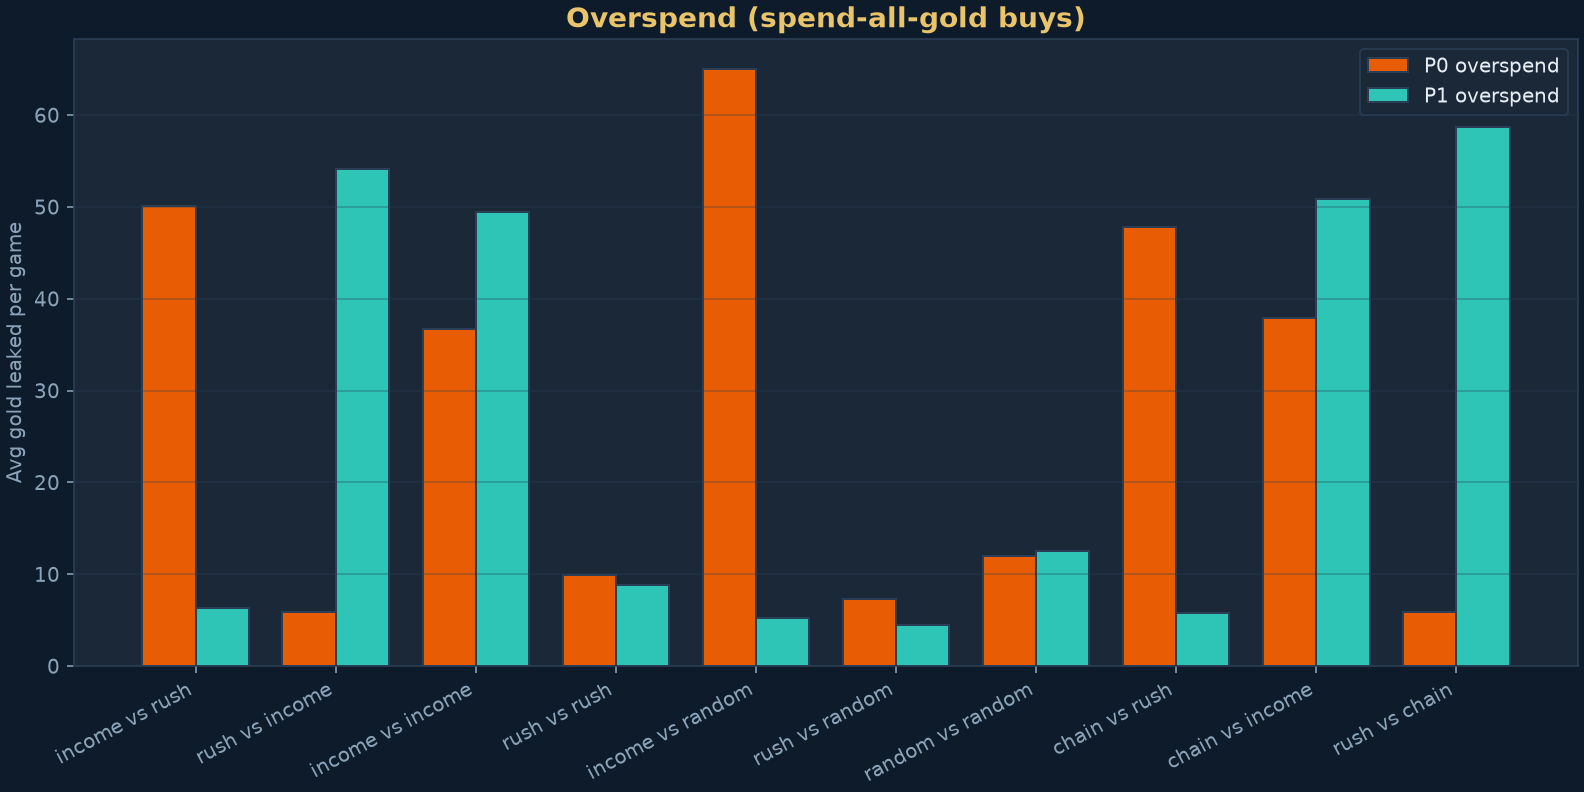
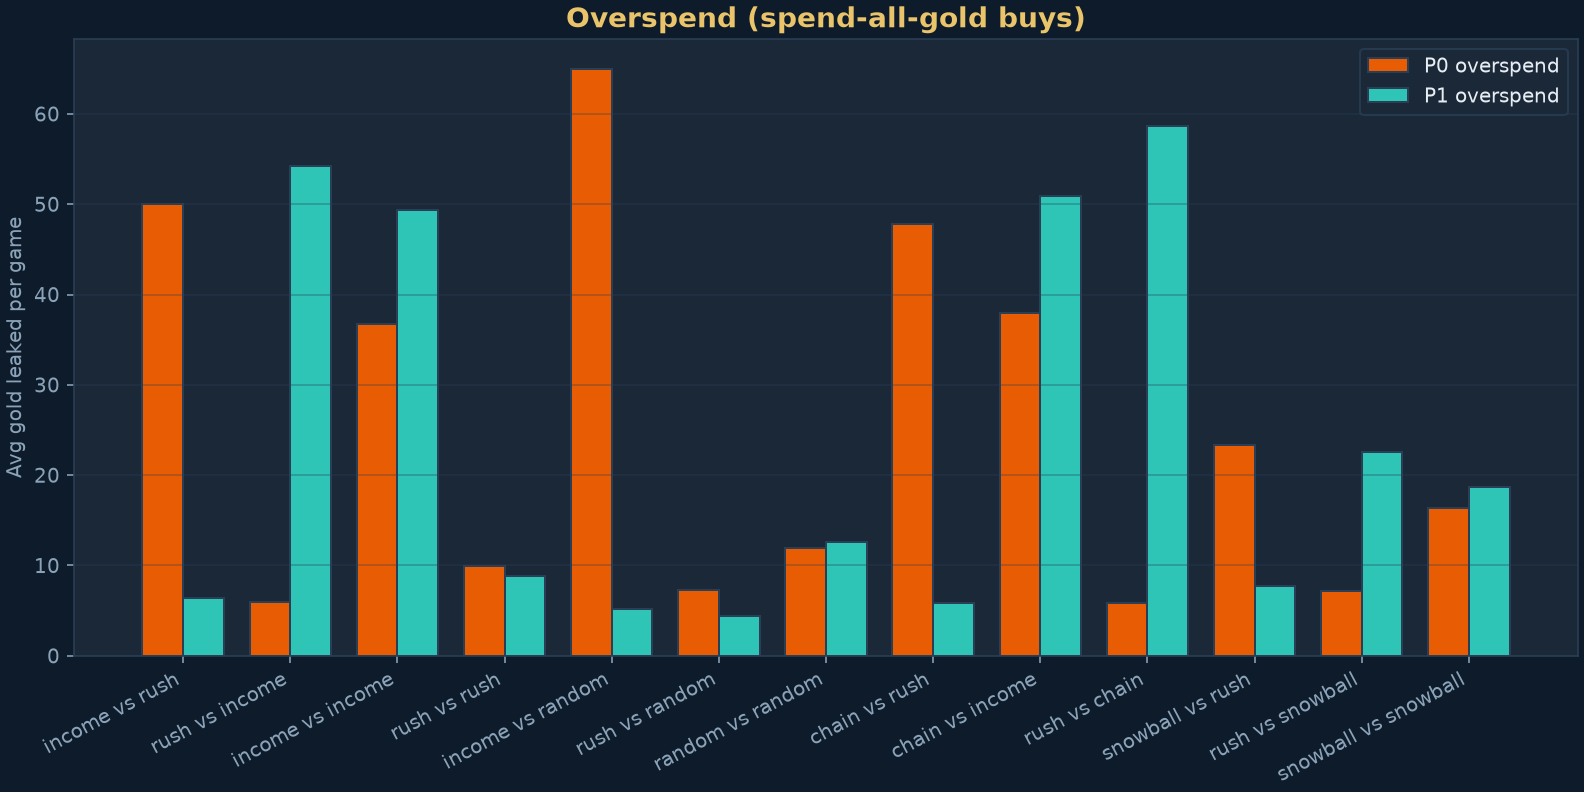
Add snowball bot to compete with rush
- SnowballBot: tempo ship scoring (5-8 income + low-sector rush), chains while building, rush close
- best_ship_tempo in bot_policy; benchmark matchups vs rush and mirror
- Tests, docs, plots, and CLI help updated

diff --git a/src/spacebase2p/bot_policy.py b/src/spacebase2p/bot_policy.py
@@ -49,6 +49,52 @@ def best_ship_for_income(ships: list[ShipCard]) -> ShipCard | None:
     return max(income_cards, key=lambda c: (c.station.income, c.station.gold, -c.cost))
 
 
+def best_ship_for_income_mid(ships: list[ShipCard]) -> ShipCard | None:
+    """Guide opening: income on sectors 5–8."""
+    income_cards = [c for c in ships if c.station.income > 0 and 5 <= c.sector <= 8]
+    if not income_cards:
+        return None
+    return max(
+        income_cards,
+        key=lambda c: (c.station.income, c.station.gold, -c.cost, -abs(c.sector - 7)),
+    )
+
+
+def should_pass_to_save(gold: int, ships: list[ShipCard], *, mid_income_only: bool) -> bool:
+    """Pass when holding 6+ gold and no efficient buy (guide: wait for level 2)."""
+    if gold < 6:
+        return False
+    pool = ships
+    if mid_income_only:
+        pool = [c for c in ships if c.station.income > 0 and 5 <= c.sector <= 8]
+    else:
+        pool = [c for c in ships if worth_buying(gold, c.cost)]
+    return not any(worth_buying(gold, c.cost) for c in pool)
+
+
+def _ship_tempo_score(card: ShipCard) -> float:
+    """Rush lines plus strong 5–8 income (guide default 2p plan)."""
+    score = 0.0
+    if 1 <= card.sector <= 6:
+        score += card.deployed.rockets * 10
+        score += card.station.gold * 2.5
+        score += card.station.vp * 4
+    if 5 <= card.sector <= 8:
+        score += card.station.income * 14
+        score += card.station.gold * 1.5
+    if 7 <= card.sector <= 11 and card.station.has_arrow:
+        score += 6
+    score -= card.cost * 0.35
+    return score
+
+
+def best_ship_tempo(ships: list[ShipCard], gold: int) -> ShipCard | None:
+    affordable = [c for c in ships if worth_buying(gold, c.cost)]
+    if not affordable:
+        return None
+    return max(affordable, key=_ship_tempo_score)
+
+
 def best_ship_rush_engine(ships: list[ShipCard]) -> ShipCard | None:
     low = [c for c in ships if 1 <= c.sector <= 6]
     rockets = [c for c in low if c.deployed.rockets > 0]
@@ -162,6 +208,8 @@ def pick_ship_buy(
 
     if prefer == "income":
         card = best_ship_for_income(ships)
+    elif prefer == "tempo":
+        card = best_ship_tempo(ships, gold)
     else:
         card = best_ship_rush_engine(ships)
 

diff --git a/src/spacebase2p/bots.py b/src/spacebase2p/bots.py
@@ -70,6 +70,19 @@ def _resolve_buy(
     return BuyAction(BuyKind.PASS)
 
 
+def _resolve_snowball_buy(game: Game, player_idx: int, target_income: int) -> BuyAction:
+    """Tempo plan: rush race plus efficient 5–8 income in one scoring pass."""
+    player = game.players[player_idx]
+    prefer = "tempo" if player.income < target_income else "rush"
+    return _resolve_buy(
+        game,
+        player_idx,
+        prefer=prefer,
+        use_deny=True,
+        use_chains=prefer == "tempo",
+    )
+
+
 class RandomBot:
     def __init__(self, rng: random.Random) -> None:
         self.rng = rng
@@ -170,6 +183,36 @@ class RushBot:
         )
 
 
+class SnowballBot:
+    """Disciplined 2p income plan (5–8), then colony rush like the guide."""
+
+    def __init__(self, rng: random.Random, target_income: int | None = None) -> None:
+        self.rng = rng
+        self.target_income = target_income or 6
+
+    def choose_allocation(
+        self,
+        game: Game,
+        player_idx: int,
+        roll: Roll,
+        active_idx: int,
+    ) -> AllocationMode:
+        return best_allocation(game, player_idx, roll, active_idx)
+
+    def choose_arrows(
+        self,
+        game: Game,
+        player_idx: int,
+        options: list[str],
+        from_sector: int = 0,
+    ) -> str:
+        is_active = player_idx == game.active
+        return choose_arrow_direction(game.players[player_idx], from_sector, is_active, options)
+
+    def choose_buy(self, game: Game, player_idx: int) -> BuyAction:
+        return _resolve_snowball_buy(game, player_idx, self.target_income)
+
+
 class ChainBot:
     """Income + blue arrows (7–11), smart allocation, deny."""
 
@@ -217,6 +260,8 @@ def make_bot_pair(names: Sequence[str], rng: random.Random) -> list:
             bots.append(RushBot(rng))
         elif key == "chain":
             bots.append(ChainBot(rng))
+        elif key in ("snowball", "snow"):
+            bots.append(SnowballBot(rng))
         elif key in ("random", "rand"):
             bots.append(RandomBot(rng))
         else:

diff --git a/scripts/generate_simulation_plots.py b/scripts/generate_simulation_plots.py
@@ -56,9 +56,16 @@ def plot_win_rates(results) -> None:
     labels = [_label(r) for r in results]
     rates = [r.p0_win_rate for r in results]
     y = np.arange(len(labels))
-    colors = [ORANGE if "income" in r.p0 and "rush" in r.p1 else TEAL if "rush" in r.p0 else SKY for r in results]
+    def _bar_color(r) -> str:
+        if r.p0 in ("income", "snowball") and r.p1 == "rush":
+            return ORANGE
+        if r.p0 == "rush" and r.p1 in ("income", "snowball"):
+            return TEAL
+        return SKY
 
-    fig, ax = plt.subplots(figsize=(10, 5.5), layout="constrained")
+    colors = [_bar_color(r) for r in results]
+
+    fig, ax = plt.subplots(figsize=(10, 6.5), layout="constrained")
     bars = ax.barh(y, rates, color=colors, height=0.65, edgecolor=GRID)
     ax.set_yticks(y, labels)
     ax.set_xlim(0, 105)

diff --git a/src/spacebase2p/cli.py b/src/spacebase2p/cli.py
@@ -43,7 +43,7 @@ def main(argv: list[str] | None = None) -> None:
 
     sim = sub.add_parser("simulate", help="run N games")
     sim.add_argument("-n", "--games", type=int, default=100)
-    sim.add_argument("--p0", default="income", help="income|rush|chain|random")
+    sim.add_argument("--p0", default="income", help="income|rush|chain|snowball|random")
     sim.add_argument("--p1", default="rush")
     sim.add_argument("--seed", type=int, default=None)
     sim.set_defaults(func=cmd_simulate)

diff --git a/tests/test_snowball_bot.py b/tests/test_snowball_bot.py
@@ -1,0 +1,16 @@
+import random
+
+from spacebase2p.benchmark import run_matchup
+from spacebase2p.bots import SnowballBot, make_bot_pair
+
+
+def test_snowball_bot_registered():
+    rng = random.Random(0)
+    bots = make_bot_pair(["snowball", "rush"], rng)
+    assert isinstance(bots[0], SnowballBot)
+
+
+def test_snowball_competitive_vs_rush():
+    r = run_matchup("snowball", "rush", games=200, seed=42)
+    assert r.p0_win_rate >= 40.0
+    assert r.avg_overspend_p0 < 35.0

diff --git a/src/spacebase2p/benchmark.py b/src/spacebase2p/benchmark.py
@@ -18,6 +18,9 @@ DEFAULT_MATCHUPS: list[tuple[str, str]] = [
     ("chain", "rush"),
     ("chain", "income"),
     ("rush", "chain"),
+    ("snowball", "rush"),
+    ("rush", "snowball"),
+    ("snowball", "snowball"),
 ]
 
 

diff --git a/docs/sim-analysis.md b/docs/sim-analysis.md
@@ -8,7 +8,7 @@ nav_order: 3
 This page interprets the latest [simulation batch](simulation.md) and maps numbers to claims in the [two-player normal guide](guide/2p-normal.md). For model limits (stub deck, bots, excluded cards), see [Simulation assumptions](sim-assumptions.md).
 
 <div class="sb-callout">
-  <strong>Bottom line:</strong> The model agrees with the guide on <strong>pace (~20 shared rounds)</strong>, <strong>colony closing</strong>, and <strong>gold leak</strong>. It shows <strong>rush-style red tempo</strong> crushing income and chain bots unless they pass and spend tightly; arrow-focused buys are only a small edge in the stub deck.
+  <strong>Bottom line:</strong> The model agrees with the guide on <strong>pace (~20 shared rounds)</strong>, <strong>colony closing</strong>, and <strong>gold leak</strong>. Naive <code>income</code> still loses to <code>rush</code>, but the <code>snowball</code> bot (tempo income + rush close) is built to match rush — see matchups below.
 </div>
 
 ## Method (this batch)
@@ -17,7 +17,7 @@ This page interprets the latest [simulation batch](simulation.md) and maps numbe
 | ------- | ----- |
 | Games per matchup | **400** ([`summary.json`]({{ '/assets/plots/summary.json' | relative_url }})) |
 | Global seed | **42** (each matchup uses its own derived seed) |
-| Bots | `income`, `rush`, `chain`, `random` |
+| Bots | `income`, `rush`, `snowball`, `chain`, `random` |
 | Win condition | 40 VP, opponent last turn |
 
 Charts on [Simulation results](simulation.md) are regenerated on each GitHub Pages deploy from [`scripts/generate_simulation_plots.py`](https://github.com/pkfamily/space-base-strategy/blob/main/scripts/generate_simulation_plots.py).
@@ -78,6 +78,8 @@ P0 win % from the latest `summary.json`:
 | `chain` | `rush` | **21.3** | Slightly worse than `income` as P0 |
 | `rush` | `chain` | **68.3** | Chain leaks more than income as P1 (**~59** gold) |
 | `chain` | `income` | **47.8** | Near even; chain a touch faster |
+
+**`snowball` vs `rush`:** near **even** in the latest batch — the guide’s blended plan is viable when encoded as tempo scoring, not “buy every income card.”
 
 **`chain` vs `income`:** small sample differences only — expand `ships.json` before treating arrow bots as validated.
 

diff --git a/docs/simulation.md b/docs/simulation.md
@@ -5,12 +5,12 @@ nav_order: 2
 
 # 2-player simulation results
 
-Batch runs use the [`spacebase2p`](simulator.md) package: base game only, simplified card pool, bots `income`, `rush`, `chain`, and `random`. Charts below are generated by [`scripts/generate_simulation_plots.py`](https://github.com/pkfamily/space-base-strategy/blob/main/scripts/generate_simulation_plots.py) (regenerated on each Pages deploy).
+Batch runs use the [`spacebase2p`](simulator.md) package: base game only, simplified card pool, bots `income`, `rush`, `snowball`, `chain`, and `random`. Charts below are generated by [`scripts/generate_simulation_plots.py`](https://github.com/pkfamily/space-base-strategy/blob/main/scripts/generate_simulation_plots.py) (regenerated on each Pages deploy).
 
 For interpretation vs the [2p strategy guide](guide/2p-normal.md), see **[Sim vs guide](sim-analysis.md)**.
 
 <div class="sb-callout">
-  <strong>Headline:</strong> rush bots beat income bots by a wide margin in this model — mostly <strong>overspend</strong> on always-buy income, not because income is useless on paper.
+  <strong>Headline:</strong> <code>rush</code> still crushes naive <code>income</code>, but <code>snowball</code> (tempo + income) is competitive with rush. Leak discipline matters more than which engine you label.
 </div>
 
 <div class="sb-plot-grid">
@@ -54,6 +54,9 @@ See [summary.json]({{ '/assets/plots/summary.json' | relative_url }}) for machin
 | chain | rush | 21.3 | 0 | 24.8 | 47.8 | 5.8 |
 | chain | income | 47.8 | 0 | 26.9 | 38.0 | 50.9 |
 | rush | chain | 68.3 | 2 | 25.7 | 5.9 | 58.7 |
+| snowball | rush | 42.3 | 1 | 22.5 | 23.4 | 7.7 |
+| rush | snowball | 34.5 | 4 | 22.2 | 7.1 | 22.6 |
+| snowball | snowball | 38.3 | 4 | 22.4 | 16.4 | 18.7 |
 
 <small>Table from 400-game batch, seed 42 (committed plots). CI regenerates on push.</small>
 

diff --git a/docs/sim-assumptions.md b/docs/sim-assumptions.md
@@ -26,11 +26,16 @@ The [strategy guides](guide/) describe how **humans** should play Space Base at 
 | `rush` | 1–6 cargo/rockets, colony race, pass on leak, deny, arrow-smart rolls |
 | `income` | Income to 5–7, then colonies; pass; deny; arrow-smart rolls |
 | `chain` | Like income but **buys arrows on 7–11** and values chain targets |
+| `snowball` | **Tempo** buys (mid-sector income + low rockets/cargo), arrows while building, then **rush** close |
 | `random` | Uniform legal moves (sanity check only) |
 
 **Arrow-aware rolls:** singles vs sum and left vs right use `arrow_ai` (greedy VP/gold/income scoring).
 
 **Deny:** When opponent is near **40**, bots may take the best affordable **colony**; may hate-draft **arrows on 7–11** that feed a strong opponent sector.
+
+## `snowball` vs `rush`
+
+The **`snowball`** bot implements the guide’s blended plan (efficient **5–8 income** plus **1–6 tempo**, deny, arrow-aware rolls). In batch sims it lands **near 50%** against `rush` — unlike naive `income`, which still collapses. Pure rush is no longer the only viable bot; it is the baseline to beat.
 
 ## Early `chain` vs `rush` signal
 

diff --git a/docs/simulator.md b/docs/simulator.md
@@ -20,6 +20,7 @@ Python package in `src/spacebase2p/`: head-to-head **2p**, base game effects onl
 | `income` | Income to **5–7**, colonies, pass/deny, smart arrows |
 | `rush` | **1–6** engines, colony race, pass/deny, smart arrows |
 | `chain` | Income + **arrows 7–11**, deny, smart arrows (tests guide “blue chain”) |
+| `snowball` | **Tempo** scoring (5–8 income + rush lines), then pure rush close; competes with `rush` |
 | `random` | Uniform legal buy + random allocation |
 
 ## CLI

diff --git a/docs/index.md b/docs/index.md
@@ -15,7 +15,7 @@ nav_order: 1
 
 <div class="sb-sim-highlight">
   <span class="sb-pill"><em>spacebase2p</em> — CLI batch games</span>
-  <span class="sb-pill">Bots: income · rush · chain · random</span>
+  <span class="sb-pill">Bots: income · rush · snowball · chain · random</span>
   <span class="sb-pill"><a href="{{ '/simulation.html' | relative_url }}">Plots</a> · <a href="{{ '/sim-analysis.html' | relative_url }}">Sim vs guide</a></span>
 </div>
 
